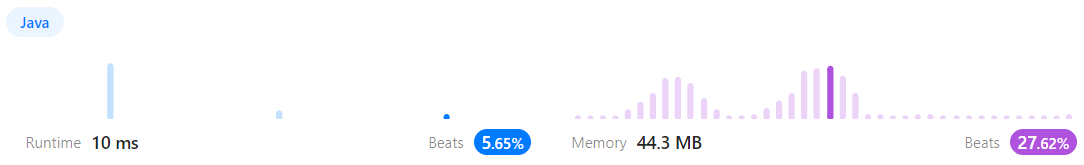
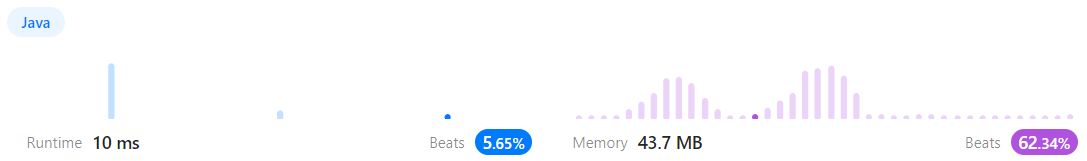
The solution to 0113

diff --git a/0113/Solution.java b/0113/Solution.java
@@ -14,8 +14,7 @@
  * }
  */
 class Solution {
-    private static List<Integer> current;
-    private static List<List<Integer>> res;
+    private List<List<Integer>> res;
 
     public List<List<Integer>> pathSum(TreeNode root, int targetSum) {
         res = new ArrayList<>();
@@ -28,7 +27,7 @@ class Solution {
         if(node.left == null && node.right == null) { // leaf node
             if(targetSum == node.val) {
                 String[] numbers = path.split(",");
-                current = new ArrayList<>(); // current must be initialized here rather than in function pathSum
+                List<Integer> current = new ArrayList<>(); // current must be initialized here rather than in function pathSum
                 for(int i = 1; i < numbers.length; i++) {
                     current.add(Integer.parseInt(numbers[i]));
                 }
